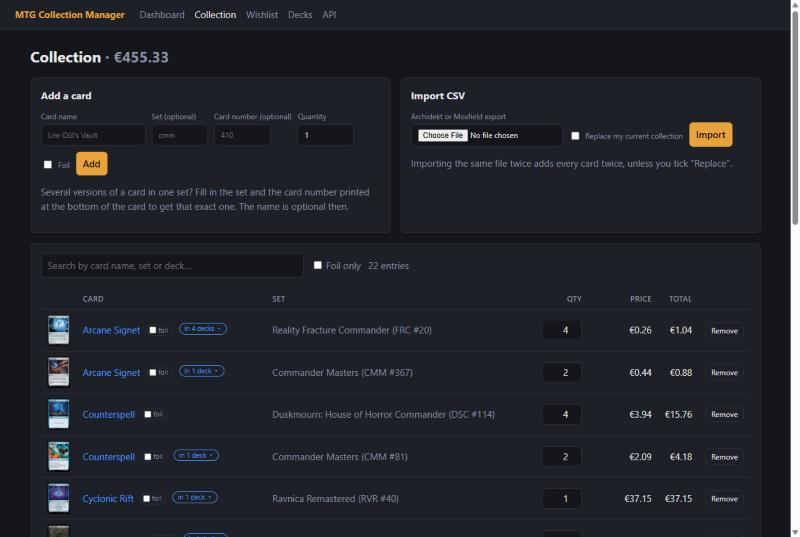
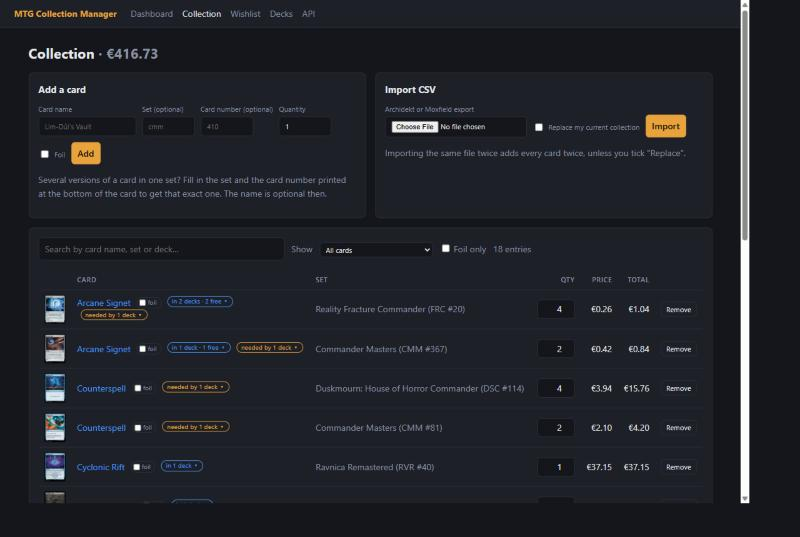
Collection: show the free copies a deck still needs
- A "Show" filter on the collection: all cards, only the free copies,
  only the free copies a deck still needs, or only the copies in a deck.
- Cards you own that are missing from a deck carry a "needed by N decks"
  label with those decks.
- The API lists free copies and the decks that need a card, and takes
  ?in_deck= to filter.
- README screenshots updated.

diff --git a/app/templates/collection.html b/app/templates/collection.html
@@ -38,6 +38,13 @@
   <div class="toolbar search-bar">
     <input id="collection-search" type="search" size="40" autocomplete="off" value="{{ request.query_params.get('q', '') }}"
            placeholder="Search by card name, set or deck…" aria-label="Search your collection">
+    <label class="muted" for="collection-show">Show</label>
+    <select id="collection-show" aria-label="Show all cards, only the free ones or only the ones in a deck">
+      <option value="all">All cards</option>
+      <option value="free">Free copies (not in a deck yet)</option>
+      <option value="wanted">Free copies a deck still needs</option>
+      <option value="used">In a deck</option>
+    </select>
     <label class="check muted"><input id="collection-foil" type="checkbox">&nbsp;Foil only</label>
     <span id="collection-count" class="muted"></span>
   </div>
@@ -49,7 +56,9 @@
     </tr>
     {% for row in rows %}
     {% set used = usage.get(row.entry.id, []) %}
-    <tr data-search="{{ row.card.name }} {{ row.card.set_name }} {{ row.card.set_code }} #{{ row.card.collector_number or '' }}{% for deck, count in used %} {{ deck.name }}{% endfor %}" data-foil="{{ 1 if row.entry.is_foil else 0 }}" data-qty="{{ row.entry.quantity }}">
+    {% set in_decks = used | sum(attribute=1) %}
+    {% set needs = wanted.get(row.entry.id, []) %}
+    <tr data-search="{{ row.card.name }} {{ row.card.set_name }} {{ row.card.set_code }} #{{ row.card.collector_number or '' }}{% for deck, count in used %} {{ deck.name }}{% endfor %}{% for deck, count in needs %} {{ deck.name }}{% endfor %}" data-foil="{{ 1 if row.entry.is_foil else 0 }}" data-qty="{{ row.entry.quantity }}" data-used="{{ in_decks }}" data-wanted="{{ needs | length }}">
       <td>{% if row.card.image_url %}<img class="thumb" src="{{ row.card.image_url }}" alt="" loading="lazy">{% endif %}</td>
       <td>
         <a href="/cards/{{ row.card.id }}">{{ row.card.name }}</a>
@@ -60,12 +69,23 @@
         {% if used %}
         {% set copies = used | sum(attribute=1) %}
         <details class="in-decks">
-          <summary title="Click to see which decks use this card">in {{ used | length }} deck{{ 's' if used | length != 1 }}</summary>
+          <summary title="Click to see which decks use this card">in {{ used | length }} deck{{ 's' if used | length != 1 }}{% if row.entry.quantity > copies %} · {{ row.entry.quantity - copies }} free{% endif %}</summary>
           <ul>
             {% for deck, count in used %}
             <li>{{ count }}× <a href="/decks/{{ deck.id }}">{{ deck.name }}</a></li>
             {% endfor %}
             <li class="muted">{{ row.entry.quantity - copies }} of {{ row.entry.quantity }} cop{{ 'y' if row.entry.quantity == 1 else 'ies' }} free</li>
+          </ul>
+        </details>
+        {% endif %}
+        {% if needs %}
+        <details class="in-decks wanted-by">
+          <summary title="You have a free copy and these decks still miss this card">needed by {{ needs | length }} deck{{ 's' if needs | length != 1 }}</summary>
+          <ul>
+            {% for deck, count in needs %}
+            <li>{{ count }}× <a href="/decks/{{ deck.id }}">{{ deck.name }}</a></li>
+            {% endfor %}
+            <li class="muted">Open the deck and click "Put back" under Still missing.</li>
           </ul>
         </details>
         {% endif %}
@@ -111,22 +131,35 @@
       text: fold(row.dataset.search),
       foil: row.dataset.foil === "1",
       quantity: Number(row.dataset.qty),
+      used: Number(row.dataset.used),  // copies that are set aside for a saved deck
+      wanted: Number(row.dataset.wanted),  // decks that miss this card while a copy is free
     }));
+    const show = document.getElementById("collection-show");
+    try { show.value = localStorage.getItem("collection-show") || "all"; } catch (error) {}
+    if (!show.value) show.value = "all";
 
     function filter() {
       const words = fold(search.value).split(/\s+/).filter(Boolean);
       let shown = 0;
       let cards = 0;
       for (const item of rows) {
-        const match = (!foilOnly.checked || item.foil) && words.every((word) => item.text.includes(word));
+        // "Free copies" counts the copies no deck uses, "In a deck" the copies a deck uses, and
+        // "a deck still needs" the free copies of cards a deck misses.
+        const free = Math.max(0, item.quantity - item.used);
+        const copies = show.value === "free" ? free
+          : show.value === "used" ? Math.min(item.used, item.quantity)
+          : show.value === "wanted" ? (item.wanted > 0 ? free : 0)
+          : item.quantity;
+        const match = copies > 0 && (!foilOnly.checked || item.foil) && words.every((word) => item.text.includes(word));
         item.row.hidden = !match;
         if (match) {
           shown += 1;
-          cards += item.quantity;
+          cards += copies;
         }
       }
-      const filtered = words.length > 0 || foilOnly.checked;
-      count.textContent = filtered ? `${shown} of ${rows.length} entries · ${cards} cards` : `${rows.length} entries`;
+      const filtered = words.length > 0 || foilOnly.checked || show.value !== "all";
+      const what = { free: "free cards", used: "cards in decks", wanted: "free cards a deck needs" }[show.value] || "cards";
+      count.textContent = filtered ? `${shown} of ${rows.length} entries · ${cards} ${what}` : `${rows.length} entries`;
       empty.hidden = shown > 0;
       table.hidden = shown === 0;
       const url = new URL(location.href);
@@ -137,6 +170,10 @@
 
     search.addEventListener("input", filter);
     foilOnly.addEventListener("change", filter);
+    show.addEventListener("change", () => {
+      try { localStorage.setItem("collection-show", show.value); } catch (error) {}
+      filter();
+    });
     filter();
 
     // Change a quantity in place: saved through the API, without reloading the page.

diff --git a/app/static/style.css b/app/static/style.css
@@ -187,6 +187,7 @@ button.link:disabled { color: var(--muted); cursor: default; text-decoration: no
 details.in-decks { display: inline-block; vertical-align: top; margin-left: 6px; font-size: 11px; }
 details.in-decks summary { display: inline-block; padding: 0 7px; border: 1px solid var(--have); border-radius: 10px; color: var(--have);
   cursor: pointer; list-style: none; white-space: nowrap; }
+details.in-decks.wanted-by summary { border-color: var(--accent); color: var(--accent); }
 details.in-decks summary::-webkit-details-marker { display: none; }
 details.in-decks summary::after { content: " ▾"; }
 details.in-decks[open] summary::after { content: " ▴"; }

diff --git a/tests/test_api.py b/tests/test_api.py
@@ -383,7 +383,15 @@ def test_collection_shows_which_decks_use_a_card(client):
 
     page = client.get("/collection").text
     assert page.count('<details class="in-decks">') == 1  # only the card that is in a deck gets the label
-    assert "in 2 decks</summary>" in page
+    assert "in 2 decks · 1 free</summary>" in page and 'data-used="2"' in page and 'id="collection-show"' in page
+
+    # Only the cards that are in no deck yet, or only the ones a deck uses.
+    free = client.get("/api/collection", params={"in_deck": False}).json()
+    assert [(i["card"]["name"], i["free"]) for i in free["items"]] == [("Fire // Ice", 1), ("Sol Ring", 1)]
+    assert [i["card"]["name"] for i in client.get("/api/collection", params={"in_deck": True}).json()["items"]] == ["Sol Ring"]
+    client.post("/api/decks", json={"name": "Third", "decklist": "1 Sol Ring"})
+    assert [i["card"]["name"] for i in client.get("/api/collection", params={"in_deck": False}).json()["items"]] == ["Fire // Ice"]
+    client.delete(f"/api/decks/{client.get('/api/decks').json()[-1]['id']}")
     assert f'<a href="/decks/{first["id"]}">Ramp &amp; Go</a>' in page and f'<a href="/decks/{second["id"]}">Artifacts</a>' in page
     assert "1 of 3 copies free" in page
     assert "Sol Ring Set CMM cmm #1 Ramp &amp; Go Artifacts" in page  # deck names are searchable too
@@ -395,3 +403,12 @@ def test_collection_shows_which_decks_use_a_card(client):
     assert '<details class="in-decks">' not in client.get("/collection").text
     assert client.get("/api/collection").json()["items"][1]["in_decks"] == []
     assert sol["in_decks"] == []  # a single entry response does not list decks
+
+    # The card was taken out of the second deck while you own free copies: that deck still needs it.
+    items = {i["card"]["name"]: i for i in client.get("/api/collection").json()["items"]}
+    assert items["Sol Ring"]["wanted_by"] == [{"id": second["id"], "name": "Artifacts", "quantity": 1}]
+    assert items["Fire // Ice"]["wanted_by"] == []
+    page = client.get("/collection").text
+    assert "needed by 1 deck</summary>" in page and 'data-wanted="1"' in page and page.count("wanted-by") == 1
+    client.put(f"/api/decks/{second['id']}/cards/{entry_id}/assigned", json={"assigned": True})
+    assert client.get("/api/collection").json()["items"][1]["wanted_by"] == []

diff --git a/app/routers/api.py b/app/routers/api.py
@@ -58,18 +58,28 @@ def summary(session: Session = Depends(get_session)):
 
 
 @router.get("/collection", response_model=CollectionOut)
-def list_collection(q: str | None = None, session: Session = Depends(get_session)):
-    """The collection; `q` filters on card name, set name or set code (every word must match)."""
+def list_collection(q: str | None = None, in_deck: bool | None = None, session: Session = Depends(get_session)):
+    """The collection; `q` filters on card name, set name or set code (every word must match).
+    `in_deck=false` keeps the entries with a copy that is in no saved deck, `in_deck=true` the
+    entries a saved deck uses."""
     rows = collection.search_rows(collection.collection_rows(session), q)
     usage = decks.deck_usage(session)
+    wanted = decks.deck_wanted(session)
     items = []
+    kept = []
     for row in rows:
         item = CollectionItemOut.from_row(row)
         item.in_decks = [
             DeckUseOut(id=deck.id, name=deck.name, quantity=copies) for deck, copies in usage.get(row.entry.id, [])
         ]
-        items.append(item)
-    return CollectionOut(total_value=collection.collection_value(rows), items=items)
+        item.free = row.entry.quantity - sum(use.quantity for use in item.in_decks)
+        item.wanted_by = [
+            DeckUseOut(id=deck.id, name=deck.name, quantity=copies) for deck, copies in wanted.get(row.entry.id, [])
+        ]
+        if in_deck is None or (bool(item.in_decks) if in_deck else item.free > 0):
+            items.append(item)
+            kept.append(row)
+    return CollectionOut(total_value=collection.collection_value(kept), items=items)
 
 
 @router.post("/collection", response_model=CollectionItemOut, status_code=201)

diff --git a/app/services/decks.py b/app/services/decks.py
@@ -550,6 +550,23 @@ def deck_usage(session: Session) -> dict[int, list[tuple[Deck, int]]]:
     return usage
 
 
+def deck_wanted(session: Session) -> dict[int, list[tuple[Deck, int]]]:
+    """Free copies a saved deck could still use: {collection entry id: [(deck, copies the deck misses)]}.
+
+    A deck misses a card you own a free copy of when you took the card out of that deck."""
+    pool = _CardPool(session)
+    wanted: dict[int, list[tuple[Deck, int]]] = {}
+    for deck in pool.decks:
+        for key, need in pool.needs[deck.id].items():
+            missing = need.quantity - sum(pool.claims[deck.id].get(key, {}).values())
+            if missing <= 0:
+                continue
+            for row in pool.printings.get(key, []):
+                if pool.remaining[row.entry.id] > 0:
+                    wanted.setdefault(row.entry.id, []).append((deck, missing))
+    return wanted
+
+
 def check_deck(session: Session, cards: list[DeckCard], deck_id: int | None = None) -> list[DeckRow]:
     """Compare a deck with the collection by card name (any printing counts).
 

diff --git a/app/schemas.py b/app/schemas.py
@@ -51,6 +51,10 @@ class CollectionItemOut(BaseModel):
     price_from_set: str | None = None
     # Saved decks these copies are set aside for (filled in by the collection list).
     in_decks: list[DeckUseOut] = []
+    # Copies that are in no saved deck (filled in by the collection list).
+    free: int | None = None
+    # Saved decks that still miss this card while a copy of it is free (quantity: copies the deck misses).
+    wanted_by: list[DeckUseOut] = []
 
     @classmethod
     def from_row(cls, row: CollectionRow) -> "CollectionItemOut":

diff --git a/app/routers/pages.py b/app/routers/pages.py
@@ -91,7 +91,7 @@ def card_page(card_id: int, request: Request, session: Session = Depends(get_ses
 def collection_page(request: Request, session: Session = Depends(get_session)):
     rows = collection.collection_rows(session)
     return render(request, "collection.html", rows=rows, total=collection.collection_value(rows),
-                  usage=decks.deck_usage(session))
+                  usage=decks.deck_usage(session), wanted=decks.deck_wanted(session))
 
 
 @router.post("/collection/add")

diff --git a/README.md b/README.md
@@ -29,6 +29,8 @@ price.
 
 ![Which decks a card is in: the label opened for two Sol Ring printings](docs/collection-decks.jpg)
 
+![Free copies a deck still needs: cards you own that are missing from a deck, with the decks that need them](docs/collection-needed.jpg)
+
 ![Printings without a price of their own borrow one from another printing, marked ≈ SET (Dragon Egg and Fellwar Stone)](docs/collection-borrowed.jpg)
 
 ![The saved decks filtered on bracket 3: two of the five decks are left](docs/decks-filter.jpg)
@@ -65,6 +67,7 @@ price.
 - Change the quantity of a card in place, without removing and re-adding it
 - Tick or untick "foil" on a card you already have; price and totals follow, and it merges with the same card in the other finish
 - See which decks a card is in: cards that are set aside for a deck carry an "in N decks" label that opens the list of decks, and how many copies are still free
+- Show only the free copies, only the copies a deck uses, or only the free copies a deck still needs: cards you own that are missing from a deck carry a "needed by N decks" label with the decks
 - Instant search in the collection on card name, set or deck (accents and word order do not matter), with a foil-only filter
 - A printing without a price borrows the price of the cheapest printing with the same name, marked "≈ SET"
 - Daily price snapshots, total value over time, top 10 most valuable cards, weekly risers and fallers
@@ -161,7 +164,7 @@ product page. Two things to know:
 
 | Method | Path | |
 | --- | --- | --- |
-| `GET` / `POST` | `/api/collection` | List the collection (`?q=` searches name and set) / add a card and fetch its price |
+| `GET` / `POST` | `/api/collection` | List the collection (`?q=` searches name and set, `?in_deck=false` keeps the cards that are in no deck yet) / add a card and fetch its price |
 | `POST` | `/api/collection/import` | Upload an Archidekt or Moxfield CSV |
 | `PATCH` / `DELETE` | `/api/collection/{id}` | Change the quantity or the foil finish of an entry / remove it |
 | `GET` / `POST` | `/api/wishlist` | List the wishlist / watch a card with a max price |
